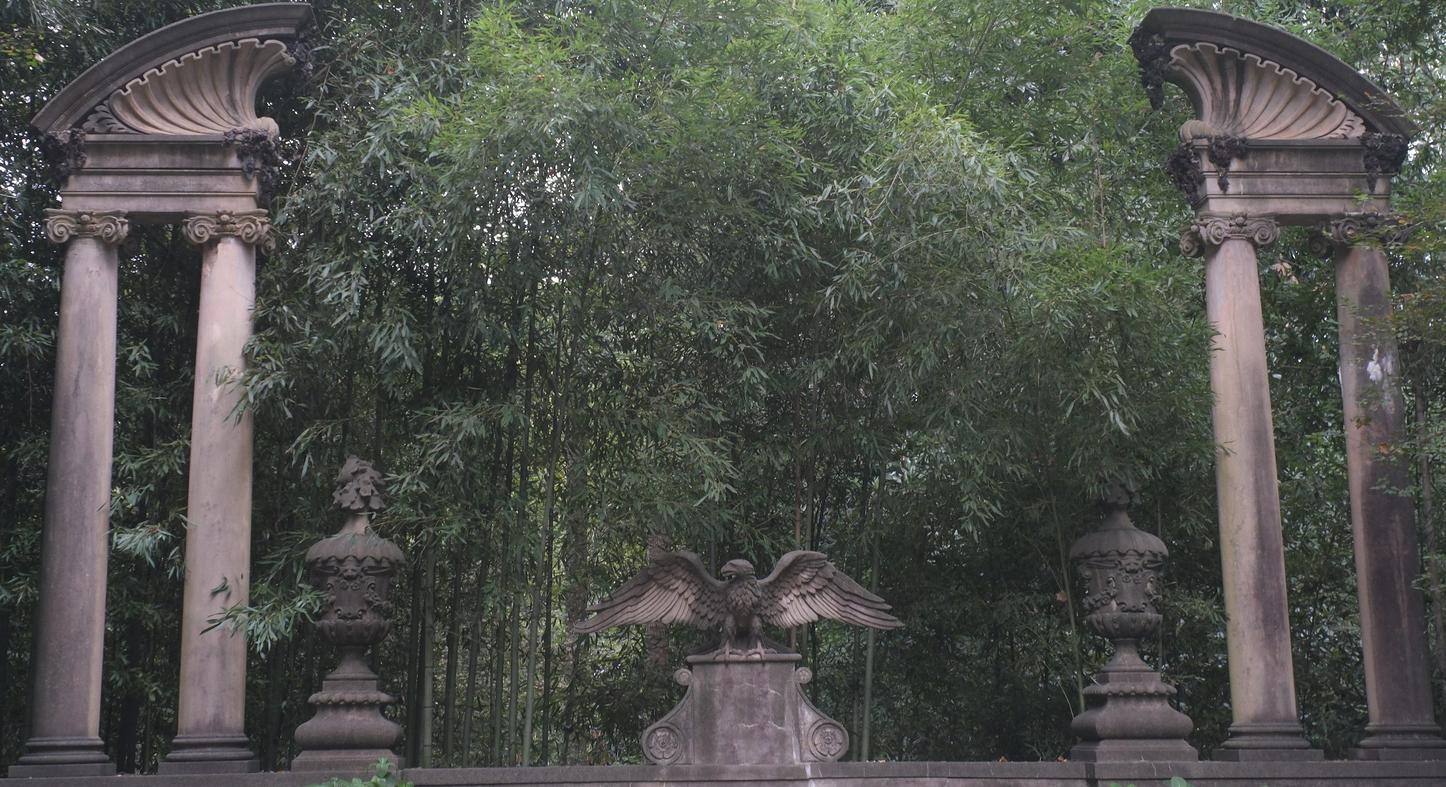
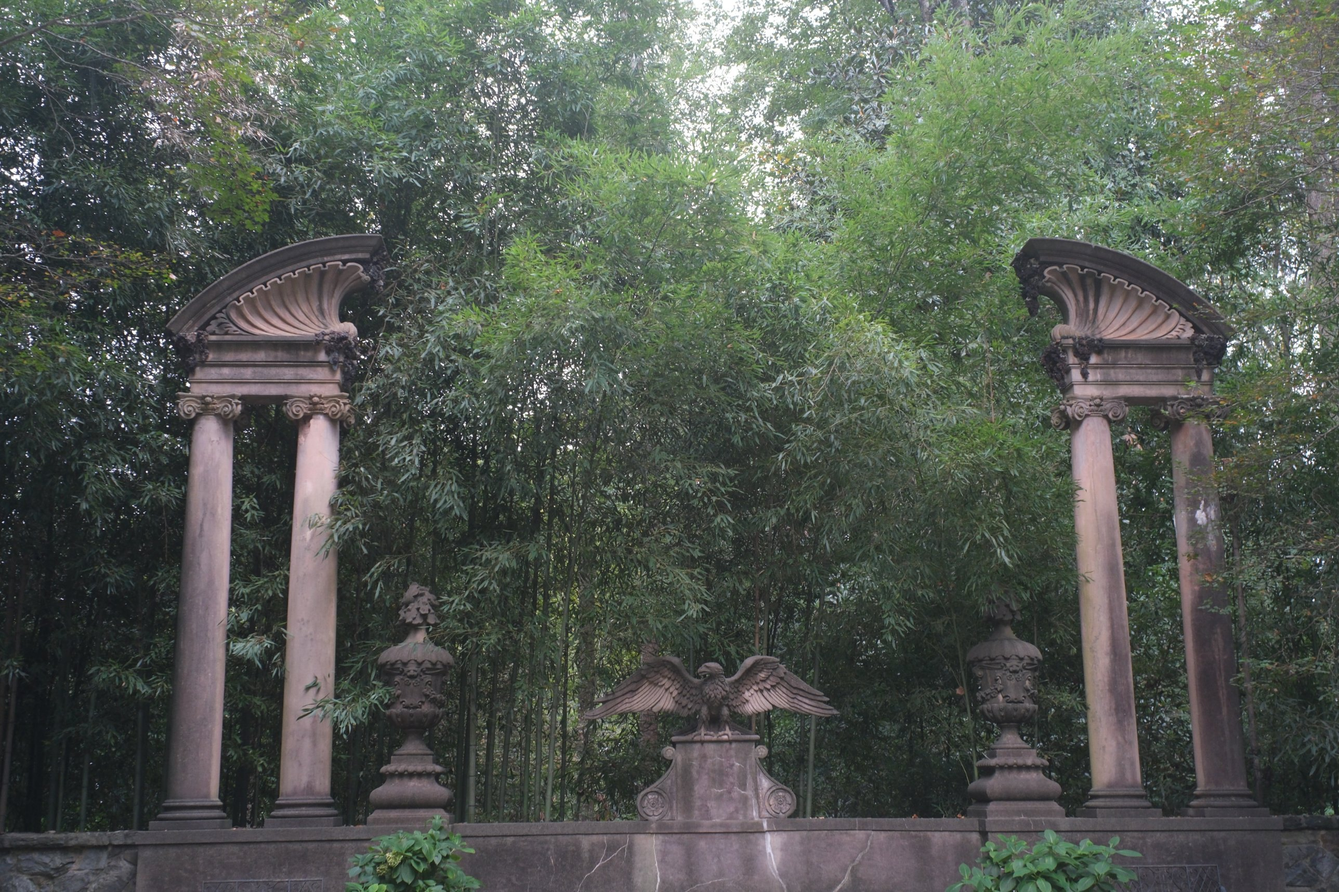
fixed eagle and arch

diff --git a/assets/style.css b/assets/style.css
@@ -88,7 +88,7 @@ address{font-style:normal;margin:.3rem 0 .8rem}
 .hero .find{margin-bottom:0}.hero .find label{margin-bottom:.3rem}
 form#rfq .btn{background:var(--amber);color:var(--deep)}form#rfq .btn:hover{background:#ffc94d}
 .hero.photo{position:relative;padding-bottom:7rem;background:url(/assets/sunset.jpg) center 86%/cover}.hero.photo::before{content:"";position:absolute;inset:0;pointer-events:none;background:linear-gradient(90deg,rgba(28,27,63,.94) 0%,rgba(28,27,63,.80) 42%,rgba(28,27,63,.30) 100%);-webkit-mask-image:linear-gradient(#000 50%,transparent 80%);mask-image:linear-gradient(#000 50%,transparent 80%)}.hero.photo>*{position:relative}
-.pband{color:#fff;padding-block:3.5rem;min-height:clamp(26rem,54.4vw,46rem);display:flex;align-items:flex-start;background:linear-gradient(90deg,rgba(4,3,43,.84) 0%,rgba(4,3,43,.50) 28%,rgba(4,3,43,0) 52%),url(/assets/eagle.jpg) center 50%/cover}
+.pband{color:#fff;padding-block:3.5rem;min-height:max(26rem,calc(min(100vw,2000px)/1.84));display:flex;align-items:flex-start;background:radial-gradient(ellipse 30% 24% at 50% 14%,rgba(4,3,43,.74) 0%,rgba(4,3,43,.5) 55%,rgba(4,3,43,0) 100%) center/min(100%,2000px) 100% no-repeat,url(/assets/eagle.jpg) center 70%/min(100%,2000px) auto no-repeat,#04032b}
 .pband .wrap{width:100%}.pband h2{color:#fff;margin:0 0 .6rem;font-size:1.9rem;max-width:26ch}.pband p{max-width:58ch;font-size:1.15rem;margin:0;color:#e6e8f2}
 @media(max-width:700px){.hero.photo{padding-bottom:5.5rem;background:url(/assets/sunset.jpg) 68% bottom/cover}.hero.photo::before{background:rgba(28,27,63,.88)}.pband{min-height:34rem;background:linear-gradient(rgba(4,3,43,.9) 0%,rgba(4,3,43,.75) 38%,rgba(4,3,43,0) 70%),url(/assets/eagle.jpg) 52% bottom/cover}.pband h2{font-size:1.5rem}}
 
@@ -157,3 +157,5 @@ form#rfq legend{float:left;width:100%;padding:0;margin:0 0 .5rem;font-weight:500
 form#rfq legend+*{clear:both}
 form#rfq label.chk{padding:.3rem 0}
 form#rfq input[type=checkbox]{width:1.1rem;height:1.1rem;margin:0;flex:none;accent-color:var(--ink)}
+@media(min-width:701px){.pband{display:flex;min-height:min(calc(100vw/1.55),1250px);padding:3.5rem 0;align-items:flex-start;background:linear-gradient(90deg,rgba(4,3,43,.84) 0%,rgba(4,3,43,.50) 28%,rgba(4,3,43,0) 52%),url(/assets/eagle.jpg) center 74%/cover no-repeat,#04032b}}
+@media(max-width:700px){.pband{display:block;min-height:calc(100vw/1.5 + 6.4rem);padding:1.5rem 0 0;background:linear-gradient(#04032b 0,rgba(4,3,43,.78) 18%,rgba(4,3,43,0) 44%) center bottom/100% calc(100vw/1.5) no-repeat,url(/assets/eagle.jpg) center bottom/100% auto no-repeat,#04032b}.pband .wrap{padding-bottom:0}}

diff --git a/index.html b/index.html
@@ -22,7 +22,7 @@
 <dl class="ruled"><dt>Catalog</dt><dd>Each listing identifies the NSN, part number, manufacturer, description and end use.</dd>
 <dt>Pricing</dt><dd>Pricing and availability are provided by quotation. Please submit the NSN or part number and the quantity required.</dd>
 <dt>Requirements</dt><dd>Please indicate on the request whether it is for immediate purchase or in support of a government bid.</dd></dl></details></div></section>
-<section class="pband"><div class="wrap"><h2>Sustaining American-built systems, from legacy fleets to future power</h2><p>From the platforms that built the supply chain to the turbines that will power what comes next, we source the parts that keep them in service.</p></div></section>
+<section class="pband"><div class="wrap"><h2>Sustaining American-built systems, legacy fleets to the future of power</h2><p>From the platforms that built the supply chain to the turbines that will power what comes next, we source the parts that keep them in service.</p></div></section>
 <section class="cta"><div class="wrap"><h2>Item not listed in the catalog?</h2><a class="btn solid" href="/rfq.html">Request for quote</a></div></section></main>
 <footer class="site"><div class="wrap"><div class="foot"><a class="foot-home" href="/" aria-label="Strat Com home"><img class="foot-mark" src="/assets/logo-box.svg" alt="SC – Strat Com" width="132" height="132"></a>
 <div class="fcol"><p><strong>Strategic Components, LLC</strong><br>Doing business as Strat Com</p><address>2221 St. George Lane, Suite 7<br>Chico, CA 95926</address></div>

diff --git a/build.py b/build.py
@@ -218,7 +218,7 @@ def main():
 <dl class="ruled"><dt>Catalog</dt><dd>Each listing identifies the NSN, part number, manufacturer, description and end use.</dd>
 <dt>Pricing</dt><dd>Pricing and availability are provided by quotation. Please submit the NSN or part number and the quantity required.</dd>
 <dt>Requirements</dt><dd>Please indicate on the request whether it is for immediate purchase or in support of a government bid.</dd></dl></details></div></section>
-<section class="pband"><div class="wrap"><h2>Sustaining American-built systems, from legacy fleets to future power</h2><p>From the platforms that built the supply chain to the turbines that will power what comes next, we source the parts that keep them in service.</p></div></section>
+<section class="pband"><div class="wrap"><h2>Sustaining American-built systems, legacy fleets to the future of power</h2><p>From the platforms that built the supply chain to the turbines that will power what comes next, we source the parts that keep them in service.</p></div></section>
 <section class="cta"><div class="wrap"><h2>Item not listed in the catalog?</h2><a class="btn solid" href="/rfq.html">Request for quote</a></div></section>''',
         cur="/", extra_head=org, bp=False))
 
